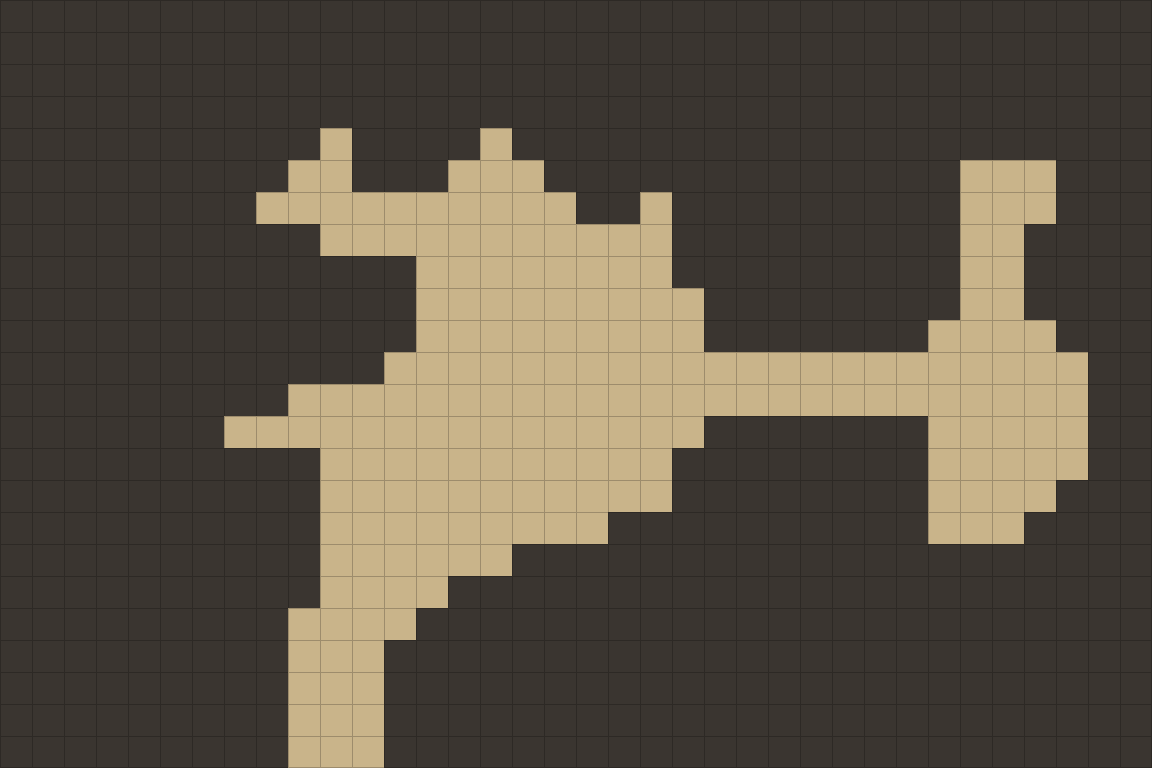
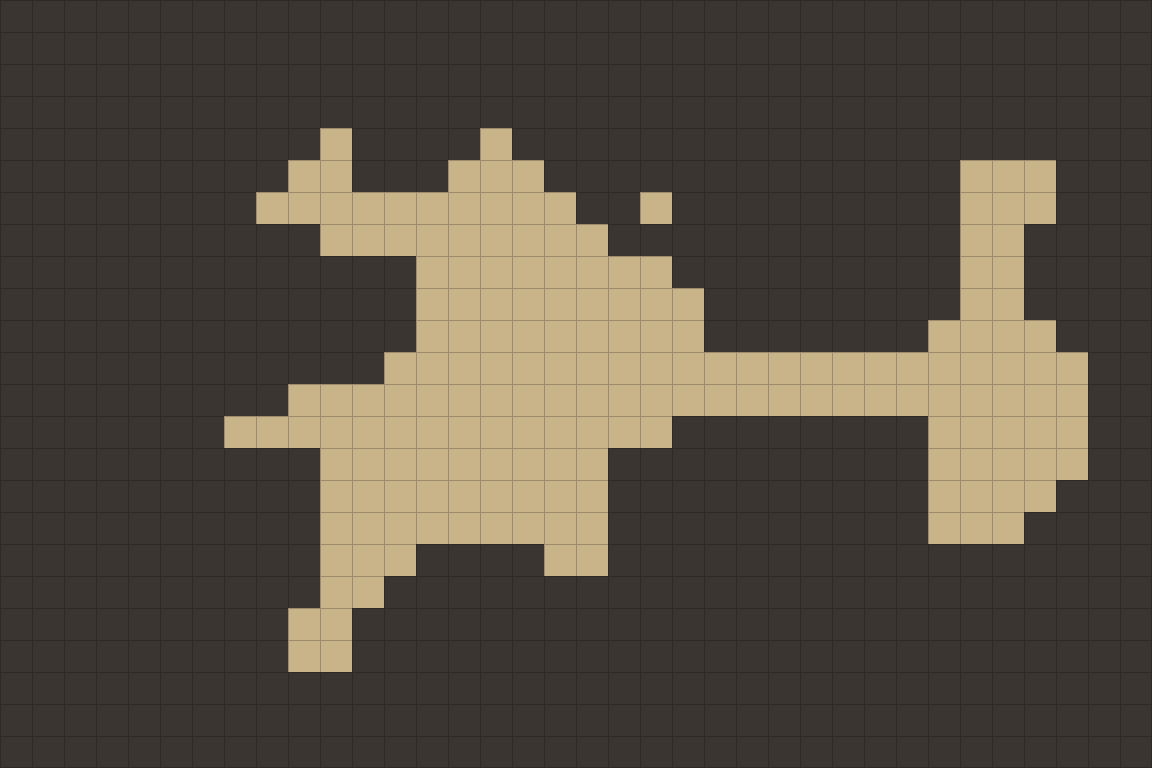
Align riverside paths and wildlife with the painted banks

Changed region(s): [[0.25, 0.6875, 0.5312, 1.0], [0.5, 0.5312, 0.625, 0.6875], [0.5312, 0.2812, 0.5938, 0.3438]]

diff --git a/src/content/maps/riverside.ts b/src/content/maps/riverside.ts
@@ -6,7 +6,7 @@ export const RIVERSIDE_ID = 'ba_dan_riverside';
 export const RIVERSIDE_ENTRY = 'riverside_explore';
 export const RIVERSIDE_SPOTS = {
   mira: { x: 15, y: 9 },
-  otter: { x: 20, y: 15 },
+  otter: { x: 17, y: 15 },
   tea: { x: 10, y: 18 },
   practice: { x: 30, y: 13 },
   shrine: { x: 31, y: 5 },
@@ -34,7 +34,7 @@ const spans: readonly (readonly (readonly [number, number])[])[] = [
     [30, 32],
   ],
   [
-    [10, 20],
+    [10, 18],
     [30, 31],
   ],
   [
@@ -52,28 +52,31 @@ const spans: readonly (readonly (readonly [number, number])[])[] = [
   [[12, 33]],
   [[9, 33]],
   [
-    [7, 21],
+    [7, 20],
     [29, 33],
   ],
   [
-    [10, 20],
+    [10, 18],
     [29, 33],
   ],
   [
-    [10, 20],
+    [10, 18],
     [29, 32],
   ],
   [
     [10, 18],
     [29, 31],
   ],
-  [[10, 15]],
-  [[10, 13]],
-  [[9, 12]],
-  [[9, 11]],
-  [[9, 11]],
-  [[9, 11]],
-  [[9, 11]],
+  [
+    [10, 12],
+    [17, 18],
+  ],
+  [[10, 11]],
+  [[9, 10]],
+  [[9, 10]],
+  [],
+  [],
+  [],
 ];
 const rows = spans.map((row) =>
   Array.from({ length: 36 }, (_, x) => (row.some(([a, b]) => x >= a && x <= b) ? '=' : '#')).join(
@@ -99,7 +102,7 @@ export const RIVERSIDE: MapDef = {
     { x: 15, y: 13 },
     { x: 16, y: 13 },
   ],
-  exit: { pos: { x: 10, y: 23 }, label: 'Back to Ba Dan village' },
+  exit: { pos: { x: 10, y: 20 }, label: 'Back to Ba Dan village' },
   npcs: [
     {
       id: 'riverside_mira',

diff --git a/scripts/art/map-pack.ts b/scripts/art/map-pack.ts
@@ -43,7 +43,7 @@ const SCENES: Readonly<Record<string, Scene>> = {
   ba_dan_riverside: {
     place: 'The riverside neighborhood of Ba Dan, a quiet afternoon beyond the village.',
     scene:
-      'A warm painted village of timber houses and jade roofs occupies the left bank. A great banyan shades a central open square. A stream flows from a waterfall at the north toward the south, crossed by a wooden footbridge through the middle. Across it, a little practice clearing opens to the east and a narrow path climbs north to an old stone shrine. A tea veranda overlooks the southwest path. Mossy stones, flowers and reeds soften the banks. Keep the central square, bridge and marked paths clear.',
+      'A warm painted village of timber houses and terracotta roofs occupies the left bank. A great banyan shades a central open square. A stream flows from a waterfall at the north toward the south, crossed by a wooden footbridge through the middle. Across it, a little practice clearing opens to the east and a narrow path climbs north to an old stone shrine. A tea veranda overlooks the southwest path. Mossy stones, flowers and reeds soften the banks. Keep the central square, bridge and marked paths clear.',
     light:
       'Warm afternoon daylight, sage greens and cream earth, gently painted edges with dark brown ink accents.',
   },

diff --git a/e2e/riverside.spec.ts b/e2e/riverside.spec.ts
@@ -3,6 +3,8 @@ import { enterNode, resetStorage, startGame } from './helpers';
 
 for (const renderer of ['canvas', 'webgl']) {
   test(`riverside discovery, forms and campaign preservation (${renderer})`, async ({ page }) => {
+    const errors: string[] = [];
+    page.on('pageerror', (error) => errors.push(error.message));
     await resetStorage(page, `?renderer=${renderer}`);
     await startGame(page, ['Jared'], ['bo'], 'campaign-to-preserve', { reduceMotion: false });
     const before = await page.evaluate(() => {
@@ -49,6 +51,7 @@ for (const renderer of ['canvas', 'webgl']) {
       };
     });
     expect(after).toEqual(before);
+    expect(errors).toEqual([]);
     await expect(
       page.getByRole('button', { name: 'Explore the riverside', exact: true }),
     ).toBeVisible();

diff --git a/src/render/living/layer.ts b/src/render/living/layer.ts
@@ -123,8 +123,8 @@ export class VillageLayer {
     for (let i = 0; i < 38; i++) {
       const y = (i * 0.67 + time * 0.48) % 24;
       if (y > 10.65 && y < 13.2) continue;
-      const centre = y < 11 ? 25.05 : 24.0 + Math.sin(y * 0.28) * 0.7;
-      const x = centre + Math.sin(i * 8.31) * 1.45;
+      const centre = y < 11 ? 25.05 : 24.4 + Math.max(0, y - 17) * 0.4;
+      const x = centre + Math.sin(i * 8.31) * 1.2;
       c.strokeStyle = i % 3 ? 'rgba(213,250,238,0.25)' : 'rgba(250,255,232,0.48)';
       c.lineWidth = 0.025 + (i % 3) * 0.012;
       c.beginPath();

diff --git a/src/app/village/VillageLife.ts b/src/app/village/VillageLife.ts
@@ -262,8 +262,8 @@ export class VillageLife {
     const t = time / 1000;
     const pet = now < this.petUntil;
     this.creature = {
-      x: 19.5 + (pet ? 0 : Math.sin(t * 0.35) * 0.4),
-      y: 15 + (pet ? 0 : Math.cos(t * 0.35) * 0.2),
+      x: RIVERSIDE_SPOTS.otter.x + 0.65 + (pet ? 0 : Math.sin(t * 0.35) * 0.4),
+      y: RIVERSIDE_SPOTS.otter.y - 0.3 + (pet ? 0 : Math.cos(t * 0.35) * 0.2),
     };
     this.stage.draw(
       {

diff --git a/docs/art/prompts/maps/ba_dan_riverside.md b/docs/art/prompts/maps/ba_dan_riverside.md
@@ -18,10 +18,10 @@ The riverside neighborhood of Ba Dan, a quiet afternoon beyond the village.
 
 36 columns by 24 rows, counted from 0 at the top-left corner. The painting is the ground and what stands on it, nothing else: the game draws its own grid, movement contours, units, props and effects over it, so every edge in the painting that matters to the rules sits exactly on a tile edge.
 
-- Road (207 tiles): 207 tiles (the centre), row 4: columns 10 and 15; row 5: columns 9–10, 14–16 and 30–32; row 6: columns 8–17, 20 and 30–32; row 7: columns 10–20 and 30–31; row 8: columns 13–20 and 30–31; row 9: columns 13–21 and 30–31; row 10: columns 13–21 and 29–32; row 11: columns 12–33; row 12: columns 9–33; row 13: columns 7–21 and 29–33; row 14: columns 10–20 and 29–33; row 15: columns 10–20 and 29–32; row 16: columns 10–18 and 29–31; row 17: columns 10–15; row 18: columns 10–13; row 19: columns 9–12; rows 20–23: columns 9–11.
-- Stone walls (657 tiles): 657 tiles (the centre), rows 0–3: columns 0–35; row 4: columns 0–9, 11–14 and 16–35; row 5: columns 0–8, 11–13, 17–29 and 33–35; row 6: columns 0–7, 18–19, 21–29 and 33–35; row 7: columns 0–9, 21–29 and 32–35; row 8: columns 0–12, 21–29 and 32–35; row 9: columns 0–12, 22–29 and 32–35; row 10: columns 0–12, 22–28 and 33–35; row 11: columns 0–11 and 34–35; row 12: columns 0–8 and 34–35; row 13: columns 0–6, 22–28 and 34–35; row 14: columns 0–9, 21–28 and 34–35; row 15: columns 0–9, 21–28 and 33–35; row 16: columns 0–9, 19–28 and 32–35; row 17: columns 0–9 and 16–35; row 18: columns 0–9 and 14–35; row 19: columns 0–8 and 13–35; rows 20–23: columns 0–8 and 12–35.
+- Road (185 tiles): 184 tiles (the centre), row 4: columns 10 and 15; row 5: columns 9–10, 14–16 and 30–32; row 6: columns 8–17 and 30–32; row 7: columns 10–18 and 30–31; row 8: columns 13–20 and 30–31; row 9: columns 13–21 and 30–31; row 10: columns 13–21 and 29–32; row 11: columns 12–33; row 12: columns 9–33; row 13: columns 7–20 and 29–33; row 14: columns 10–18 and 29–33; row 15: columns 10–18 and 29–32; row 16: columns 10–18 and 29–31; row 17: columns 10–12 and 17–18; row 18: columns 10–11; rows 19–20: columns 9–10; one tile at column 20, row 6 (top centre).
+- Stone walls (679 tiles): 679 tiles (the centre), rows 0–3 and 21–23: columns 0–35; row 4: columns 0–9, 11–14 and 16–35; row 5: columns 0–8, 11–13, 17–29 and 33–35; row 6: columns 0–7, 18–19, 21–29 and 33–35; row 7: columns 0–9, 19–29 and 32–35; row 8: columns 0–12, 21–29 and 32–35; row 9: columns 0–12, 22–29 and 32–35; row 10: columns 0–12, 22–28 and 33–35; row 11: columns 0–11 and 34–35; row 12: columns 0–8 and 34–35; row 13: columns 0–6, 21–28 and 34–35; row 14: columns 0–9, 19–28 and 34–35; row 15: columns 0–9, 19–28 and 33–35; row 16: columns 0–9, 19–28 and 32–35; row 17: columns 0–9, 13–16 and 19–35; row 18: columns 0–9 and 12–35; rows 19–20: columns 0–8 and 11–35.
 - No open ground: every tile is a feature.
-- The party enters from the left, standing at (16, 12), (15, 12), (14, 12), (14, 13), (15, 13), (16, 13); enemies come from the right. The exit is at (10, 23). Paint nothing there that would read as an object to walk round.
+- The party enters from the left, standing at (16, 12), (15, 12), (14, 12), (14, 13), (15, 13), (16, 13); enemies come from the right. The exit is at (10, 20). Paint nothing there that would read as an object to walk round.
 
 The rows as the rules read them:
 
@@ -33,30 +33,30 @@ The rows as the rules read them:
 ##########=####=####################
 #########==###===#############===###
 ########==========##=#########===###
-##########===========#########==####
+##########=========###########==####
 #############========#########==####
 #############=========########==####
 #############=========#######====###
 ############======================##
 #########=========================##
-#######===============#######=====##
-##########===========########=====##
-##########===========########====###
+#######==============########=====##
+##########=========##########=====##
+##########=========##########====###
 ##########=========##########===####
-##########======####################
-##########====######################
-#########====#######################
-#########===########################
-#########===########################
-#########===########################
-#########===########################
+##########===####==#################
+##########==########################
+#########==#########################
+#########==#########################
+####################################
+####################################
+####################################
 ```
 
 Legend: `#` stone walls; `=` road.
 
 ## Prompt
 
-> Top-down painted ground for a tactics battlefield, seen straight from above with the faintest three-quarter tilt so anything that stands up shows a sliver of its south face; north is up; every tile the same size; no perspective convergence, no horizon, no sky. A warm painted village of timber houses and jade roofs occupies the left bank. A great banyan shades a central open square. A stream flows from a waterfall at the north toward the south, crossed by a wooden footbridge through the middle. Across it, a little practice clearing opens to the east and a narrow path climbs north to an old stone shrine. A tea veranda overlooks the southwest path. Mossy stones, flowers and reeds soften the banks. Keep the central square, bridge and marked paths clear. Warm afternoon daylight, sage greens and cream earth, gently painted edges with dark brown ink accents. Painterly ground with soft transitions inside a region and clean edges between regions; a clean, uniform dark-brown ink line (`#1b1410`) only where an edge is drawn, never black; two flat tones plus a thin rim light per material on the things that stand up (rocks, trunks, walls, crates); evenly lit, no vignette, no darkened corners, no cast shadows longer than a tile. Nothing the game draws itself: no characters, no creatures, no barrels, carts or braziers, no user interface, no text, no border, no grid lines. Landscape 3:2, 3456×2304.
+> Top-down painted ground for a tactics battlefield, seen straight from above with the faintest three-quarter tilt so anything that stands up shows a sliver of its south face; north is up; every tile the same size; no perspective convergence, no horizon, no sky. A warm painted village of timber houses and terracotta roofs occupies the left bank. A great banyan shades a central open square. A stream flows from a waterfall at the north toward the south, crossed by a wooden footbridge through the middle. Across it, a little practice clearing opens to the east and a narrow path climbs north to an old stone shrine. A tea veranda overlooks the southwest path. Mossy stones, flowers and reeds soften the banks. Keep the central square, bridge and marked paths clear. Warm afternoon daylight, sage greens and cream earth, gently painted edges with dark brown ink accents. Painterly ground with soft transitions inside a region and clean edges between regions; a clean, uniform dark-brown ink line (`#1b1410`) only where an edge is drawn, never black; two flat tones plus a thin rim light per material on the things that stand up (rocks, trunks, walls, crates); evenly lit, no vignette, no darkened corners, no cast shadows longer than a tile. Nothing the game draws itself: no characters, no creatures, no barrels, carts or braziers, no user interface, no text, no border, no grid lines. Landscape 3:2, 3456×2304.
 
 ## Negative prompt
 

diff --git a/docs/art/riverside.md b/docs/art/riverside.md
@@ -7,7 +7,7 @@ inform gesture, pauses, weight and effects. Their characters and assets are not
 used here.
 
 The background was generated for this project at 1536 by 1024. Composition:
-jade-roofed timber houses on the left bank, a banyan above an open village square,
+terracotta-roofed timber houses on the left bank, a banyan above an open village square,
 a stream and waterfall through the right third, a central wooden bridge,
 a practice clearing across it, a north-east shrine and a south-west tea veranda.
 Warm afternoon light, sage foliage, cream paths, mossy stone, gentle painted
